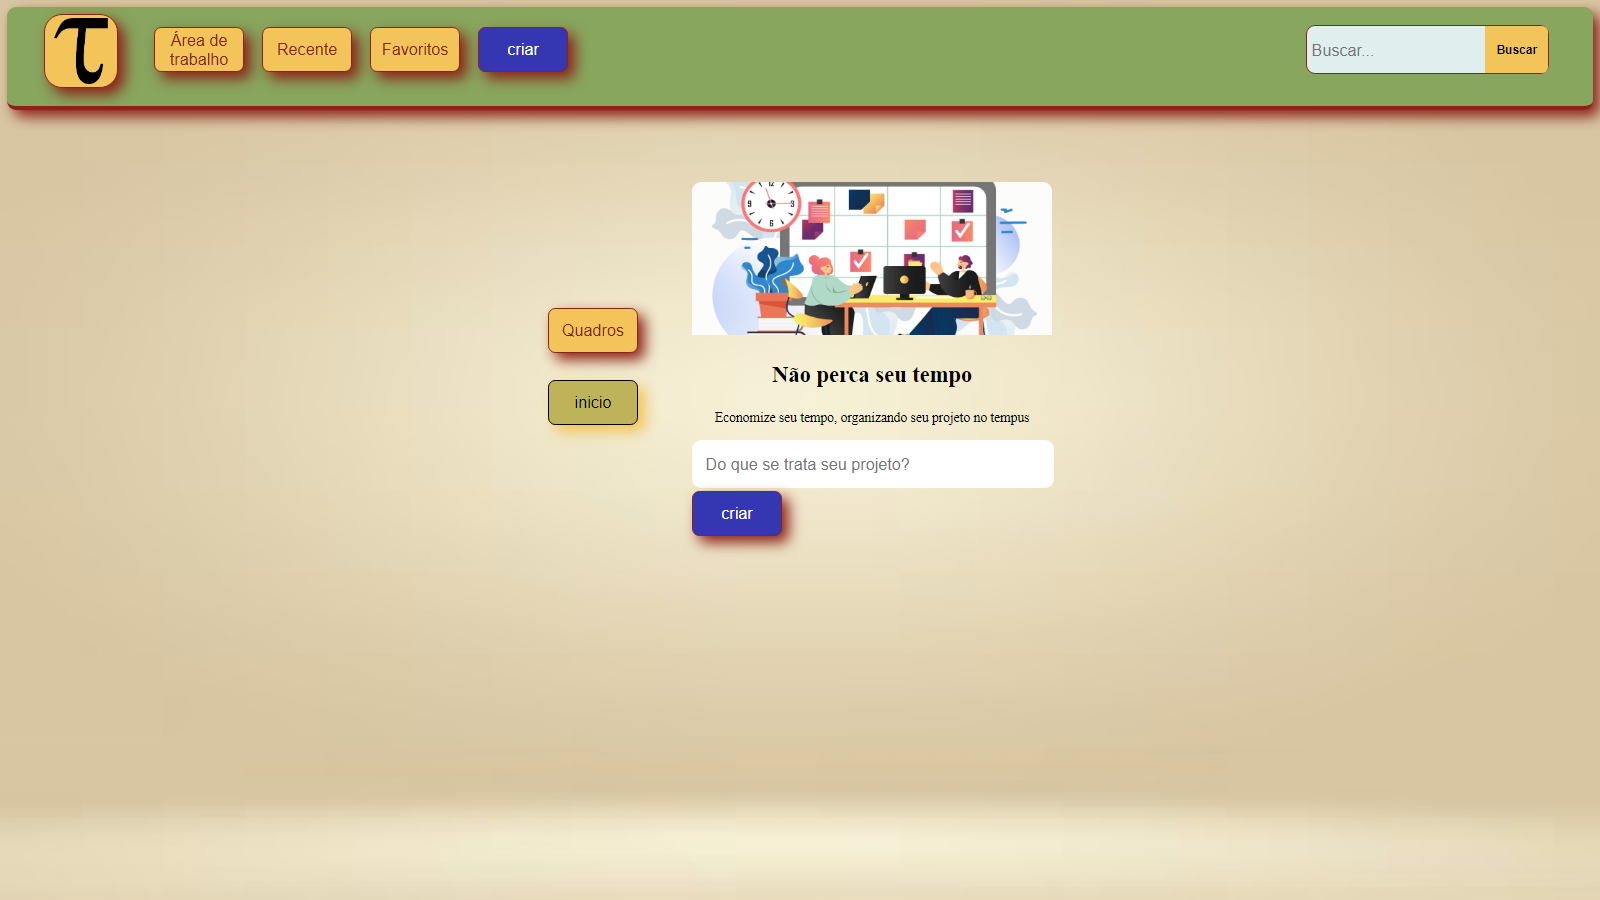
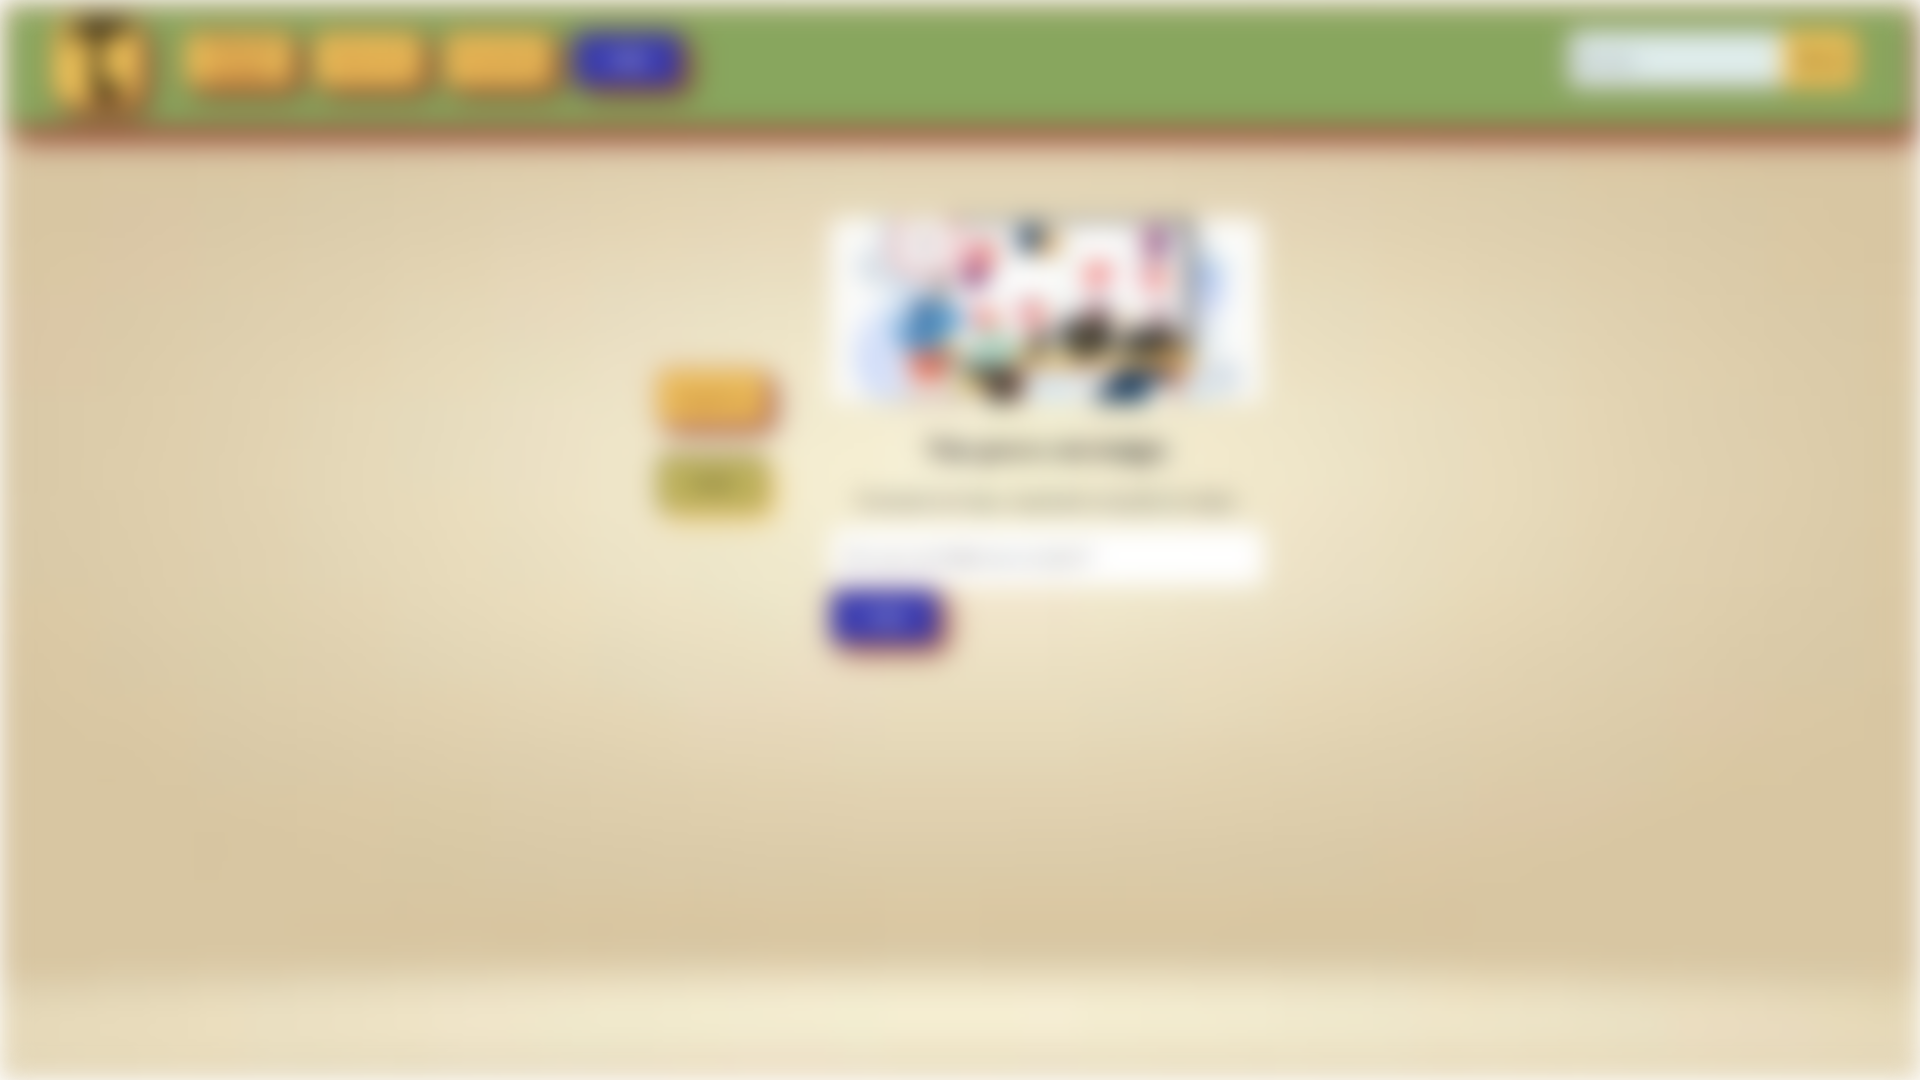
arrumando o fundo da pagina criar

diff --git a/web/frontend/Index/PaginaTrelloInicio.html b/web/frontend/Index/PaginaTrelloInicio.html
@@ -28,9 +28,11 @@
                 <button type="button" class="buttons">
                     Favoritos
                 </button>
+                <a href="./criar.html">
                 <button type="button" class="criar">
                     criar
                 </button>
+                </a>
                 <div id="divBusca">
                     <input type="text" id="txtBusca" placeholder="Buscar..." />
                     <button id="btnBusca">Buscar</button>

diff --git a/web/frontend/Index/criar.html b/web/frontend/Index/criar.html
@@ -11,7 +11,6 @@
 
 <body>
     <header>
-        <div id="fundo">
             <div id="galeria">
                 <h1 id="titulo">
                   Vamos criar um projeto
@@ -32,7 +31,6 @@
                     criar
                 </button>
             </div>
-        </div>
     </header>
 
 </body>

diff --git a/web/frontend/Stiles/criar.css b/web/frontend/Stiles/criar.css
@@ -1,12 +1,8 @@
-#fundo{
-    position: relative;
-    width: 100%;
-    height: 100vh;
+body{
     background-image: url('../imagens/imagemdefundo.PNG');
     background-repeat: no-repeat;
     background-size: cover;
     background-color: #88a65e;
-    filter:blur(10px);
 }
 
 #galeria {
